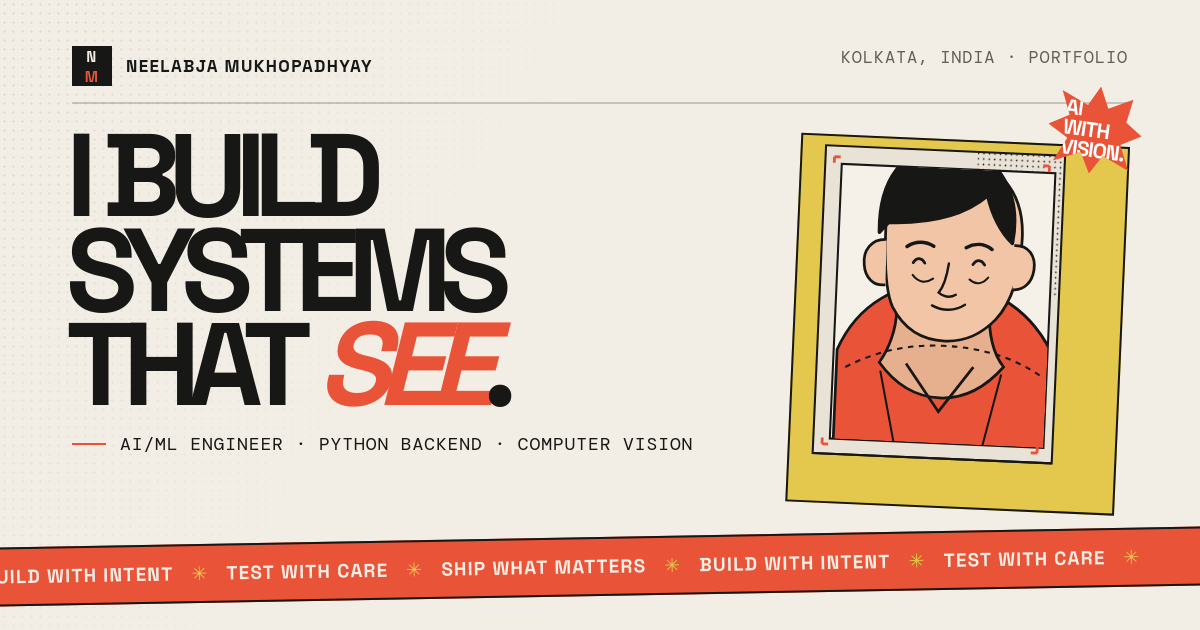
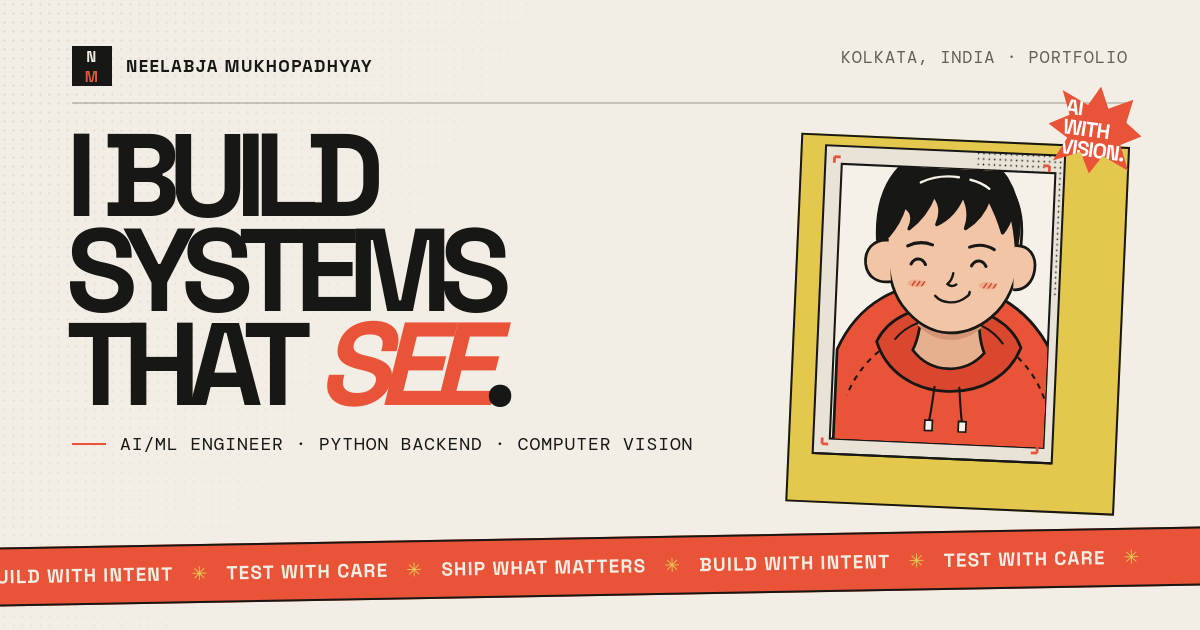
Portrait: one pair of eyes, younger (early-20s) character
- remove the under-eye curves that read as a second pair of eyes; keep
  only the closed, ∩-shaped smiling eyes
- rounder, slightly shorter face with a softer chin; small nose; fuller,
  flatter brows; easy, slightly lopsided smile
- side-swept textured fringe with a hair shine, manga blush hatching
- slimmer neck with chin shadow; collared jacket becomes a hoodie (hood,
  raglan seams, drawstrings) in the same coral
- frame, palette, line weights and composition unchanged; detection box
  tightened to the new face; og-image regenerated with the new portrait

Changed region(s): [[0.7092, 0.2714, 0.8633, 0.6937]]

diff --git a/src/components/MangaPortrait.jsx b/src/components/MangaPortrait.jsx
@@ -24,18 +24,32 @@ export function MangaPortrait({ children = null }) {
         <path d="M281 56h127v205H281z" fill="url(#dots)" />
         <path d="M84 82h311v400H84z" fill="#F5F1E9" stroke="#171715" strokeWidth="3" />
         <g clipPath="url(#portraitClip)">
+          {/* hoodie: body, hood bunched behind the neck, raglan seams, drawstrings */}
           <path d="M89 352c27-68 85-103 152-103 72 0 131 35 164 103v146H89V352Z" fill="#E95438" stroke="#171715" strokeWidth="4" />
-          <path d="M173 290c1 31-10 60-22 78 26 33 55 48 90 48 34 0 65-17 91-49-17-20-24-51-24-82l-135 5Z" fill="#E6AF8D" stroke="#171715" strokeWidth="4" />
-          <path d="M152 170c0-67 41-103 95-103 62 0 104 42 104 111 0 48-10 94-34 121-19 21-44 34-72 34-36 0-62-18-78-46-13-25-15-74-15-117Z" fill="#F2C5A6" stroke="#171715" strokeWidth="4" />
-          <path d="M143 179c-4-76 28-125 92-129 35-2 62 11 81 37 20 27 27 60 21 100-18-15-32-42-39-68-30 28-78 44-142 45l-13 15Z" fill="#171715" stroke="#171715" strokeWidth="5" strokeLinejoin="round" />
-          <path d="M154 189c-22 0-34 17-31 38 2 19 15 31 32 28M340 190c21-2 32 14 30 34-2 19-14 31-30 30" fill="#F2C5A6" stroke="#171715" strokeWidth="4" />
-          <path d="M184 198c12-9 27-9 39-2M270 196c13-8 27-7 38 1" stroke="#171715" strokeWidth="5" strokeLinecap="round" />
-          <path d="M194 221c5-8 12-8 17 0M281 220c5-8 12-8 17 0" stroke="#171715" strokeWidth="4" strokeLinecap="round" />
-          <path d="M246 220c-2 17-7 35-13 43 8 6 17 7 25 2M224 282c16 8 34 7 48-3" stroke="#171715" strokeWidth="3.5" strokeLinecap="round" />
-          <path d="M194 239c8 10 19 12 30 4M277 242c9 8 19 6 27-4" stroke="#171715" strokeWidth="3" strokeLinecap="round" />
-          <path d="M102 377c44-25 90-37 140-37 58 0 106 13 146 39" stroke="#171715" strokeWidth="3" strokeDasharray="8 8" />
-          <path d="M190 368 240 436l48-67" stroke="#171715" strokeWidth="4" />
-          <path d="m153 380 27 117m149-119-26 119" stroke="#171715" strokeWidth="3" />
+          <path d="M146 338c14-34 54-56 105-56s91 22 105 56c-15 42-55 68-105 68s-90-26-105-68Z" fill="#D9472E" stroke="#171715" strokeWidth="4" />
+          <path d="M172 334c16-22 45-35 79-35s63 13 79 35" stroke="#171715" strokeWidth="3" />
+          <path d="M150 352c-18 16-34 38-44 66M352 352c18 16 34 38 44 66" stroke="#171715" strokeWidth="3" strokeDasharray="8 8" />
+          <path d="M233 400c-2 18-3 34-6 50M269 400c2 18 3 34 6 50" stroke="#171715" strokeWidth="3" strokeLinecap="round" />
+          <path d="M221 449h11v15h-11zM270 449h11v15h-11z" fill="#F5F1E9" stroke="#171715" strokeWidth="2.5" />
+          {/* neck and the chin's shadow */}
+          <path d="M208 276c2 30-1 54-9 72 14 17 32 25 52 25s38-8 52-25c-8-18-11-42-9-72Z" fill="#E6AF8D" stroke="#171715" strokeWidth="4" />
+          <path d="M206 300c15 13 29 19 45 19s30-6 45-19l1 12c-14 13-29 19-46 19s-32-6-46-19Z" fill="#D49576" />
+          {/* face */}
+          <path d="M154 174c0-66 42-106 97-106 60 0 99 42 99 107 0 50-9 88-31 112-17 19-39 33-68 34-29 0-51-14-70-37-18-22-27-62-27-110Z" fill="#F2C5A6" stroke="#171715" strokeWidth="4" />
+          {/* hair: crown and a side-swept fringe, with a shine */}
+          <path d="M141 190c-7-82 31-134 97-136 38-1 67 12 86 38 19 28 25 62 19 100Q340 166 334 146Q330 162 322 172Q314 148 300 124Q292 152 268 168Q276 144 262 120Q252 150 226 164Q236 140 220 122Q210 152 186 172Q196 150 178 140Q172 164 156 184Q150 188 141 190Z" fill="#171715" stroke="#171715" strokeWidth="5" strokeLinejoin="round" />
+          <path d="M200 104c17-9 36-12 55-10M272 97c10 2 20 6 28 12" stroke="#F5F1E9" strokeWidth="3.5" strokeLinecap="round" />
+          <path d="M157 190c-22-1-35 15-32 36 3 18 18 28 38 24M341 190c21-2 32 14 30 34-2 19-14 31-30 30" fill="#F2C5A6" stroke="#171715" strokeWidth="4" />
+          <path d="M185 197c11-6 24-7 36-3M275 195c12-5 25-4 36 2" stroke="#171715" strokeWidth="4.5" strokeLinecap="round" />
+          {/* closed, smiling eyes */}
+          <path d="M191 223c5-10 16-10 21 0M279 222c5-10 16-10 21 0" stroke="#171715" strokeWidth="4.5" strokeLinecap="round" />
+          {/* blush with manga hatching */}
+          <ellipse cx="200" cy="251" rx="13" ry="5.5" fill="#E95438" opacity=".22" />
+          <ellipse cx="304" cy="250" rx="13" ry="5.5" fill="#E95438" opacity=".22" />
+          <path d="M194 254l4-6M201 254l4-6M208 254l4-6M298 253l4-6M305 253l4-6M312 253l4-6" stroke="#C8452C" strokeWidth="2" strokeLinecap="round" />
+          {/* nose and an easy, slightly lopsided smile */}
+          <path d="M253 234c-1 7-4 13-8 16 4 3 9 3 13 0" stroke="#171715" strokeWidth="3.5" strokeLinecap="round" strokeLinejoin="round" />
+          <path d="M228 268c11 11 32 12 46-1M274 267c2-1 4-4 4-7" stroke="#171715" strokeWidth="3.5" strokeLinecap="round" />
         </g>
         <path d="M60 504h348" stroke="#171715" strokeWidth="3" />
         <path d="M73 72h9m-9 0v9m313-9h-9m9 0v9M73 490h9m-9 0v-9m313 9h-9m9 0v-9" stroke="#E95438" strokeWidth="4" />

diff --git a/src/styles.css b/src/styles.css
@@ -239,7 +239,7 @@ main:focus { outline: none; }
 .detect { position: absolute; inset: 0; z-index: 3; pointer-events: none; }
 .detect__scan { position: absolute; left: 17.5%; top: 14.64%; width: 64.8%; height: 71.43%; overflow: hidden; }
 .detect__scan::after { content: ""; position: absolute; left: 0; right: 0; top: 0; height: 22%; background: linear-gradient(to bottom, transparent, rgba(233, 84, 56, .05) 55%, rgba(233, 84, 56, .24) 93%, rgba(233, 84, 56, .95) 98%, transparent); mix-blend-mode: multiply; translate: 0 -105%; animation: scan 6.5s 2.3s cubic-bezier(.45, 0, .4, 1) infinite; }
-.detect__box { position: absolute; left: 23.3%; top: 15.7%; width: 56.7%; height: 46.1%; animation: lock-on .9s 1.45s var(--ease-out) backwards; }
+.detect__box { position: absolute; left: 23.3%; top: 15.7%; width: 56.7%; height: 44.6%; animation: lock-on .9s 1.45s var(--ease-out) backwards; }
 .detect__box::before { content: ""; position: absolute; inset: 0; border: 1px dashed rgba(233, 84, 56, .65); }
 .detect__box::after { content: ""; position: absolute; inset: 0; border: 2px solid #e95438; opacity: 0; }
 .detect__corner { position: absolute; width: 18%; height: 14%; border: 0 solid #e95438; }
